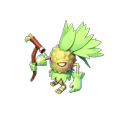
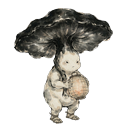
怪物换皮改做法: 放弃图生图描轮廓，改为纯文字原创物种+程序化动画生成; 纳瓦霍位换成墨菇童子(立绘+idle3+attack4); 新增 tools/make_frames.py

diff --git a/tools/make_frames.py b/tools/make_frames.py
@@ -1,0 +1,137 @@
+"""用单张立绘程序化生成战斗帧条（idle / attack）。
+
+思路：不再逐帧描原版，而是拿一张全新立绘，按自己定的节奏做位移/缩放/倾斜/
+冲击墨迹，生成与原来同尺寸、同帧数的帧条。游戏代码零改动。
+
+因为所有帧来自同一张源图，帧间绝不会变形或闪烁。
+
+用法：
+  python3 make_frames.py --src portrait.png --kind idle   --frames 3 --dst out.png
+  python3 make_frames.py --src portrait.png --kind attack --frames 4 --dst out.png
+参数：
+  --height  角色在 256 帧里的目标高度（像素）
+  --size    帧边长，默认 256（与原素材一致）
+"""
+import argparse
+import math
+import os
+
+import numpy as np
+from PIL import Image, ImageDraw, ImageFilter
+
+
+def cut_white(im, thresh=36):
+    """从四角泛洪，把连通的近白背景抠成透明。"""
+    im = im.convert("RGB")
+    w, h = im.size
+    sentinel = (255, 0, 255)
+    px = im.load()
+    for corner in ((0, 0), (w - 1, 0), (0, h - 1), (w - 1, h - 1)):
+        if sum(abs(a - b) for a, b in zip(px[corner], (255, 255, 255))) < 60:
+            ImageDraw.floodfill(im, corner, sentinel, thresh=thresh)
+    arr = np.asarray(im).astype(np.int16)
+    mask = np.abs(arr - np.array(sentinel)).sum(axis=2) < 12
+    if mask.mean() > 0.95:  # 没有可抠的白底
+        return im.convert("RGBA")
+    alpha = np.where(mask, 0, 255).astype(np.uint8)
+    a = Image.fromarray(alpha).filter(ImageFilter.MinFilter(3))
+    rgb = arr.astype(np.uint8)
+    rgb[mask] = 0
+    return Image.fromarray(np.dstack([rgb, np.asarray(a)]), "RGBA")
+
+
+def load_sticker(src, target_h):
+    """返回裁好、缩放到目标高度的 RGBA 角色贴图。"""
+    im = Image.open(src).convert("RGBA")
+    if im.getchannel("A").getextrema()[0] > 200:  # 全不透明，尝试抠白
+        im = cut_white(im)
+    bb = im.getchannel("A").point(lambda v: 255 if v > 8 else 0).getbbox()
+    if bb:
+        im = im.crop(bb)
+    s = target_h / im.height
+    return im.resize((max(1, round(im.width * s)), target_h), Image.LANCZOS)
+
+
+def place(sticker, size, dx=0.0, dy=0.0, scale=1.0, rot=0.0, base_y=None):
+    """缩放 + 绕自身中心旋转，再按实际脚底对齐，保证帧间脚下不漂。"""
+    w = max(1, round(sticker.width * scale))
+    h = max(1, round(sticker.height * scale))
+    im = sticker.resize((w, h), Image.LANCZOS)
+    if abs(rot) > 0.01:
+        im = im.rotate(rot, resample=Image.BICUBIC, expand=True)
+        bb = im.getchannel("A").point(lambda v: 255 if v > 8 else 0).getbbox()
+        if bb:
+            im = im.crop(bb)
+    base_y = size - 58 if base_y is None else base_y
+    x = round((size - im.width) / 2 + dx)
+    y = round(base_y - im.height + dy)
+    canvas = Image.new("RGBA", (size, size), (0, 0, 0, 0))
+    canvas.paste(im, (x, y), im)
+    return canvas
+
+
+def ink_slash(size, cx, cy, length, seed=7):
+    """画三道飞白墨条，表示出手方向。"""
+    rng = np.random.default_rng(seed)
+    layer = Image.new("RGBA", (size, size), (0, 0, 0, 0))
+    d = ImageDraw.Draw(layer)
+    for k in range(3):
+        y0 = cy + (k - 1) * 9 + rng.integers(-3, 4)
+        x0 = cx
+        x1 = cx + length * (0.75 + 0.25 * rng.random())
+        th = max(1, 4 - k)
+        d.line([(x0, y0), (x1, y0 + rng.integers(-6, 7))], fill=(28, 26, 24, 200 - k * 45), width=th)
+    for _ in range(7):
+        px = cx + int(rng.integers(0, int(length * 0.9)))
+        py = cy + int(rng.integers(-16, 17))
+        r = int(rng.integers(1, 4))
+        d.ellipse([px - r, py - r, px + r, py + r], fill=(30, 28, 26, 170))
+    return layer.filter(ImageFilter.GaussianBlur(0.6))
+
+
+def build(src, kind, frames, size=256, height=150):
+    st = load_sticker(src, height)
+    out = Image.new("RGBA", (size * frames, size), (0, 0, 0, 0))
+    if kind == "idle":
+        # 呼吸：上下浮动 + 极轻微缩放 + 微幅摇摆，脚底不动
+        plan = []
+        for i in range(frames):
+            ph = math.sin(2 * math.pi * i / frames)
+            plan.append((0.0, -2.0 * abs(ph), 1.0 + 0.020 * ph, 1.0 * ph))
+        plan = [(0, dx, dy, sc, rt) for dx, dy, sc, rt in plan]
+    else:
+        # 蓄力 → 前冲 → 出手 → 回位
+        seq = [
+            (-8.0, 2.0, 0.955, -6.0),
+            (7.0, -4.0, 1.045, 7.0),
+            (15.0, -2.0, 1.070, 4.0),
+            (4.0, 0.0, 1.000, 1.0),
+        ]
+        plan = [(0, dx, dy, sc, rt) for dx, dy, sc, rt in seq]
+        if frames != len(plan):
+            plan = [plan[i % len(plan)] for i in range(frames)]
+    for i, (_, dx, dy, sc, rt) in enumerate(plan):
+        f = place(st, size, dx=dx, dy=dy, scale=sc, rot=rt)
+        if kind == "attack" and i == 2:
+            f = Image.alpha_composite(f, ink_slash(size, int(size * 0.62), int(size * 0.54), 60))
+        out.paste(f, (i * size, 0))
+    return out
+
+
+def main():
+    ap = argparse.ArgumentParser()
+    ap.add_argument("--src", required=True)
+    ap.add_argument("--kind", choices=["idle", "attack"], required=True)
+    ap.add_argument("--frames", type=int, required=True)
+    ap.add_argument("--dst", required=True)
+    ap.add_argument("--size", type=int, default=256)
+    ap.add_argument("--height", type=int, default=196)
+    a = ap.parse_args()
+    im = build(a.src, a.kind, a.frames, a.size, a.height)
+    os.makedirs(os.path.dirname(os.path.abspath(a.dst)), exist_ok=True)
+    im.save(a.dst)
+    print(f"{a.dst}  {im.size}  {a.frames} 帧")
+
+
+if __name__ == "__main__":
+    main()

diff --git a/tools/inkify_sprite.py b/tools/inkify_sprite.py
@@ -1,0 +1,113 @@
+"""战斗帧/立绘的水墨化处理（程序化，保持帧对齐）。
+
+原理：不重画结构，只做墨色重映射——把彩色压成五级墨阶（焦/浓/重/淡/清），
+保留少量原始色相（石绿、赭石）作为点缀，再叠一层宣纸纤维噪声。
+透明通道原样保留，帧边界不动，所以动画不会闪。
+
+用法：
+  python3 inkify_sprite.py --src a.png --dst b.png
+  python3 inkify_sprite.py --ids nawahuo,linlin --apply
+"""
+import argparse
+import os
+import shutil
+
+import numpy as np
+from PIL import Image, ImageFilter
+
+GAME = os.path.expanduser("~/Documents/Codex/2026-10-21/n/outputs/recovered-godot-project")
+
+# 五级墨阶：焦、浓、重、淡、清
+INK = np.array([
+    [28, 26, 24],
+    [72, 66, 58],
+    [116, 106, 94],
+    [166, 154, 140],
+    [212, 202, 186],
+], dtype=np.float32)
+
+
+def inkify(im, keep_color=0.30, posterize=True, paper=5.0):
+    im = im.convert("RGBA")
+    arr = np.asarray(im).astype(np.float32)
+    rgb, alpha = arr[..., :3], arr[..., 3:]
+
+    lum = rgb @ np.array([0.299, 0.587, 0.114], dtype=np.float32)
+    # 去饱和：往灰度收，但留 keep_color 比例的原始色相
+    gray = np.repeat(lum[..., None], 3, axis=2)
+    base = gray * (1 - keep_color) + rgb * keep_color
+
+    # 把亮度映射到五级墨阶
+    l0, l1 = float(lum.min()), float(lum.max())
+    t = (lum - l0) / max(1e-6, (l1 - l0))
+    idx = np.clip((t * 4.999).astype(np.int32), 0, 4)
+    ink = INK[idx]
+
+    # 保留一点原始色的走向：按 base 与灰度的差做微调
+    tint = (base - gray) * 0.55
+    out = ink + tint
+
+    if not posterize:
+        # 不量化时改用连续映射，笔画更细腻
+        cont = INK[0][None, None, :] * 0 + (INK[-1] - INK[0])[None, None, :] * t[..., None] + INK[0]
+        out = cont * 0.5 + out * 0.5
+
+    # 宣纸纤维噪声
+    rng = np.random.default_rng(7)
+    noise = rng.normal(0, paper, lum.shape)[..., None]
+    out = out + noise
+
+    out = np.clip(out, 0, 255)
+    res = np.concatenate([out, alpha], axis=2).astype(np.uint8)
+    img = Image.fromarray(res, "RGBA")
+    # 墨线强化：轻微锐化，让轮廓更挺
+    rgb_im = img.convert("RGB").filter(ImageFilter.UnsharpMask(radius=1.2, percent=70, threshold=2))
+    rgb_im = rgb_im.convert("RGBA")
+    rgb_im.putalpha(img.split()[-1])
+    return rgb_im
+
+
+def process(src, dst, **kw):
+    im = Image.open(src)
+    out = inkify(im, **kw)
+    out.save(dst)
+    return dst
+
+
+def main():
+    ap = argparse.ArgumentParser()
+    ap.add_argument("--src")
+    ap.add_argument("--dst")
+    ap.add_argument("--ids", help="逗号分隔的怪物 id，处理 pets 与 sprites 下全部文件")
+    ap.add_argument("--apply", action="store_true")
+    ap.add_argument("--keep-color", type=float, default=0.30)
+    a = ap.parse_args()
+
+    if a.ids:
+        ids = [x.strip() for x in a.ids.split(",") if x.strip()]
+        jobs = []
+        for pid in ids:
+            for sub in ("pets", "sprites"):
+                d = os.path.join(GAME, "assets", sub)
+                for f in sorted(os.listdir(d)):
+                    if f.startswith(pid) and f.endswith(".png"):
+                        jobs.append(os.path.join(d, f))
+        print(f"待处理 {len(jobs)} 个文件")
+        for p in jobs:
+            rel = os.path.relpath(p, GAME)
+            out = p.replace(".png", "_ink.png") if not a.apply else p
+            process(p, out, keep_color=a.keep_color)
+            if a.apply:
+                print("  覆盖", rel)
+        if not a.apply:
+            print("预览完成（未替换）；--apply 才会覆盖原文件")
+        return
+
+    if not a.src or not a.dst:
+        ap.error("需要 --src/--dst 或 --ids")
+    process(a.src, a.dst, keep_color=a.keep_color)
+    print("ok", a.dst)
+
+
+if __name__ == "__main__":
+    main()

diff --git a/tools/assemble_frames.py b/tools/assemble_frames.py
@@ -1,0 +1,88 @@
+"""把逐帧 AI 重绘稿装配回战斗帧条。
+
+流程：抠白底 → 裁到角色包围盒 → 缩放到原帧包围盒尺寸 → 贴回原位置 → 拼条。
+这样动画的位置与比例完全不动，只有画风变化，不会跳帧。
+
+用法：
+  python3 assemble_frames.py --orig assets/sprites/nawahuo_attack.png \
+      --redraws dir1,dir2,dir3,dir4 --dst out.png
+"""
+import argparse
+import glob
+import os
+
+import numpy as np
+from PIL import Image, ImageDraw, ImageFilter
+
+
+def cut_white(im, thresh=36):
+    """从四角泛洪，把连通的近白背景抠成透明。"""
+    im = im.convert("RGB")
+    w, h = im.size
+    sentinel = (255, 0, 255)
+    px = im.load()
+    for corner in ((0, 0), (w - 1, 0), (0, h - 1), (w - 1, h - 1)):
+        if sum(abs(a - b) for a, b in zip(px[corner], (255, 255, 255))) < 60:
+            ImageDraw.floodfill(im, corner, sentinel, thresh=thresh)
+    arr = np.asarray(im).astype(np.int16)
+    mask = (np.abs(arr - np.array(sentinel)).sum(axis=2) < 12)
+    alpha = np.where(mask, 0, 255).astype(np.uint8)
+    # 轻微收缩边缘，避免白边
+    a = Image.fromarray(alpha).filter(ImageFilter.MinFilter(3))
+    rgb = arr.astype(np.uint8)
+    rgb[mask] = 0
+    out = np.dstack([rgb, np.asarray(a)])
+    return Image.fromarray(out, "RGBA")
+
+
+def bbox_of(im, eps=8):
+    a = im.split()[-1].point(lambda v: 255 if v > eps else 0)
+    return a.getbbox()
+
+
+def assemble(orig_path, redraw_paths, dst):
+    strip = Image.open(orig_path).convert("RGBA")
+    W, H = strip.size
+    fw = H
+    n = W // fw
+    if len(redraw_paths) != n:
+        raise SystemExit(f"帧数不匹配：原图 {n} 帧，重绘 {len(redraw_paths)} 张")
+    out = Image.new("RGBA", (W, H), (0, 0, 0, 0))
+    for i, rp in enumerate(redraw_paths):
+        src_frame = strip.crop((i * fw, 0, (i + 1) * fw, H))
+        tb = bbox_of(src_frame)
+        if tb is None:
+            out.paste(src_frame, (i * fw, 0))
+            continue
+        r = cut_white(Image.open(rp))
+        rb = bbox_of(r)
+        if rb is None:
+            out.paste(src_frame, (i * fw, 0))
+            continue
+        r = r.crop(rb)
+        tw, th = tb[2] - tb[0], tb[3] - tb[1]
+        r = r.resize((tw, th), Image.LANCZOS)
+        out.paste(r, (i * fw + tb[0], tb[1]), r)
+        print(f"  帧{i}: 原bbox {tb} → 重绘 {rb} 缩放至 {tw}x{th}")
+    out.save(dst)
+    print("写入", dst)
+    return dst
+
+
+def main():
+    ap = argparse.ArgumentParser()
+    ap.add_argument("--orig", required=True)
+    ap.add_argument("--redraws", required=True)
+    ap.add_argument("--dst", required=True)
+    a = ap.parse_args()
+    rp = []
+    for d in a.redraws.split(","):
+        fs = sorted(glob.glob(os.path.join(d, "*.png")))
+        if not fs:
+            raise SystemExit("目录无图: " + d)
+        rp.append(fs[0])
+    assemble(a.orig, rp, a.dst)
+
+
+if __name__ == "__main__":
+    main()
